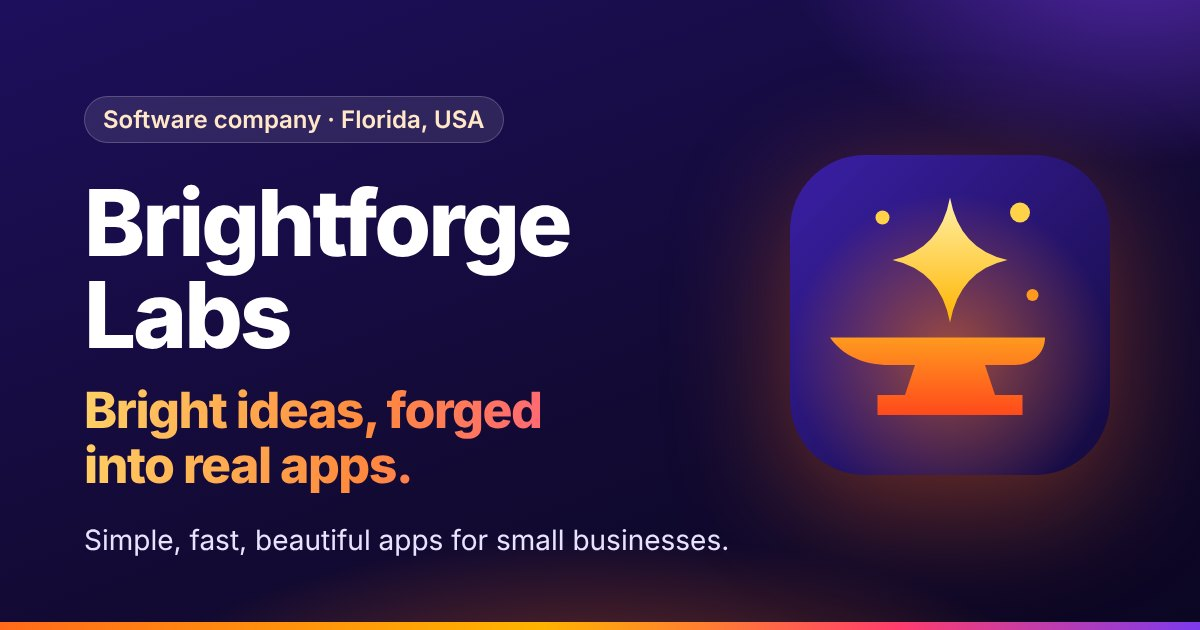
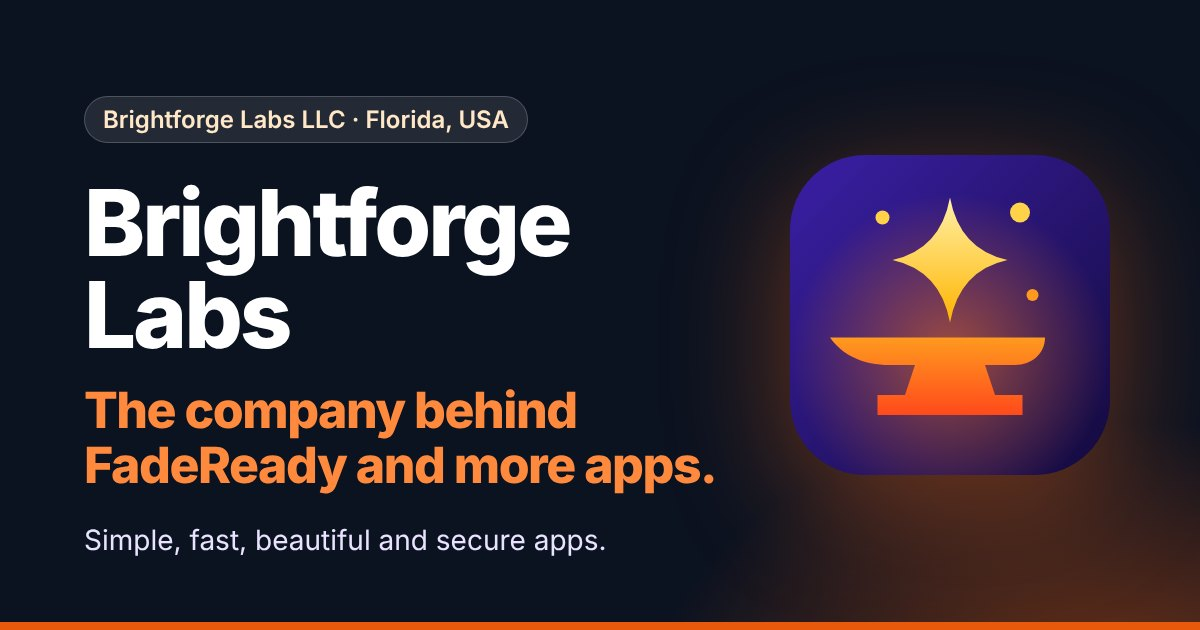
New share image and llms.txt details for the redesign

diff --git a/tools/render-og.js b/tools/render-og.js
@@ -5,15 +5,15 @@ const path = require('path');
 const root = path.join(__dirname, '..');
 const mark = fs.readFileSync(path.join(root, 'src/mark.svg'), 'utf8');
 const html = `<html><body style="margin:0;width:1200px;height:630px;overflow:hidden;font-family:ui-sans-serif,system-ui,'DejaVu Sans',sans-serif;color:#fff;
-background:radial-gradient(900px 420px at 50% 125%,rgba(255,106,26,.6),transparent 60%),radial-gradient(600px 380px at 95% -10%,rgba(124,58,237,.6),transparent 60%),linear-gradient(160deg,#1d0f5c,#120a33 60%,#0b0622)">
+background:radial-gradient(700px 420px at 92% 110%,rgba(232,89,12,.45),transparent 65%),#0b1220">
 <div style="position:absolute;left:84px;top:96px;width:700px">
-<div style="display:inline-block;padding:8px 18px;border-radius:999px;background:rgba(255,255,255,.1);border:1px solid rgba(255,255,255,.2);font-size:24px;font-weight:600;color:#ffe7c7">Software company · Florida, USA</div>
+<div style="display:inline-block;padding:8px 18px;border-radius:999px;background:rgba(255,255,255,.1);border:1px solid rgba(255,255,255,.2);font-size:24px;font-weight:600;color:#ffe7c7">Brightforge Labs LLC · Florida, USA</div>
 <div style="font-size:92px;font-weight:800;letter-spacing:-3px;line-height:1;margin-top:34px">Brightforge Labs</div>
-<div style="font-size:50px;font-weight:800;letter-spacing:-1.5px;line-height:1.1;margin-top:22px;background:linear-gradient(100deg,#ffd166,#ff8a3d 40%,#ff5c8a 75%,#b794ff);-webkit-background-clip:text;color:transparent">Bright ideas, forged<br>into real apps.</div>
-<div style="font-size:28px;color:#e9e3ff;margin-top:30px">Simple, fast, beautiful apps for small businesses.</div>
+<div style="font-size:50px;font-weight:800;letter-spacing:-1.5px;line-height:1.1;margin-top:22px;color:#ff8a3d">The company behind<br>FadeReady and more apps.</div>
+<div style="font-size:28px;color:#e9e3ff;margin-top:30px">Simple, fast, beautiful and secure apps.</div>
 </div>
 <div style="position:absolute;right:90px;top:155px;width:320px;height:320px;filter:drop-shadow(0 30px 60px rgba(255,106,26,.4))">${mark.replace('<svg ','<svg width="320" height="320" ')}</div>
-<div style="position:absolute;left:0;right:0;bottom:0;height:8px;background:linear-gradient(100deg,#ff6a1a,#ffb400 45%,#ff3d6e 75%,#7c3aed)"></div>
+<div style="position:absolute;left:0;right:0;bottom:0;height:8px;background:#e8590c"></div>
 </body></html>`;
 (async () => {
   const b = await chromium.launch();
